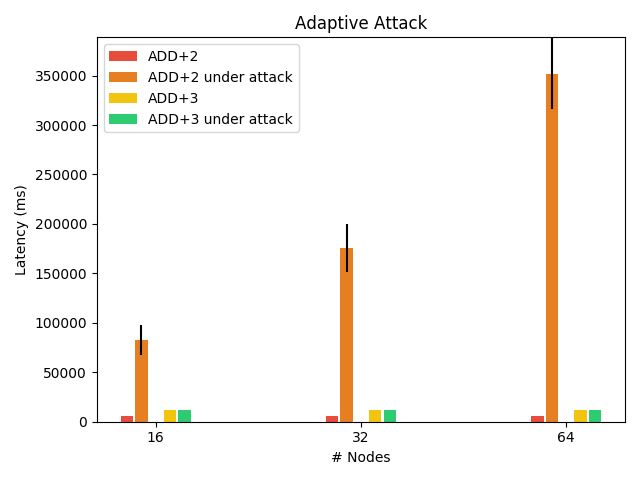
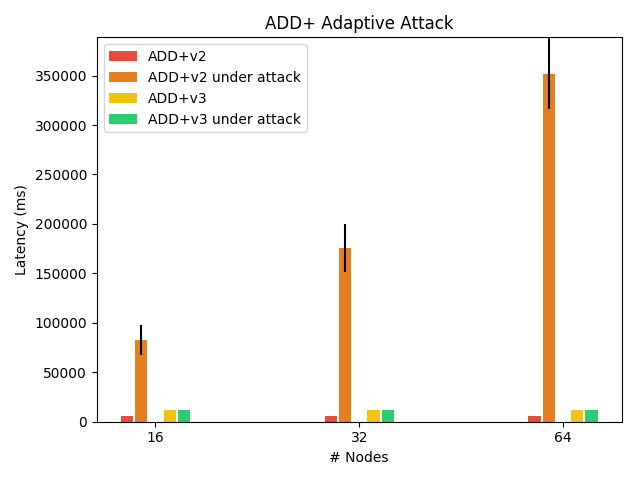
new figures

diff --git a/draw-res.py b/draw-res.py
@@ -33,7 +33,7 @@ def draw(expData):
     ax.set_ylabel('Latency (ms)')
     ax.set_xlabel('# Nodes')
     #ax.set_title(r'$Network = \mathcal{N}(250, 50), \lambda = 1000$')
-    ax.set_title('# Partitions = 3')
+    ax.set_title('Responsiveness')
     ind = np.arange(len(expData[0]['means']))  # the x locations for the groups
     ax.set_xticks(ind)
     ax.set_xticklabels(('16', '32', '64'))
@@ -49,61 +49,60 @@ def draw(expData):
         
         #autolabel(rects, ax)
     print(yMax)
-    plt.ylim(top=yMax + 70000)
+    plt.ylim(top=yMax + 10000)
     ax.legend(loc='upper left')
     fig.tight_layout()
-    plt.axhline(60000, color='k', linestyle='dashed', linewidth=1)
-    #plt.text(2, 2, 'resolve', ha='right', va='center')
     plt.show()
 
-data = partition2.data
-attackData = adaptive.data
-t = 'm'
+n1Data = normal1.data
+n2Data = normal2.data
+lData = l2.data
+t = 'l'
 mean = t + '_mean'
 std = t + '_std'
 expData = [
     {
-        'means': data['v-basic'][mean],
-        'std': data['v-basic'][std],
-        'label': 'ADD+v1',
+        'means': n2Data['v-basic'][mean],
+        'std': n2Data['v-basic'][std],
+        'label': 'ADD+v1 (' + r'$Network = \mathcal{N}(250, 50), \lambda = 1000$' + ')',
         'color': '#e74c3c'
     },
     {
-        'means': data['v-vrf'][mean],
-        'std': data['v-vrf'][std],
-        'label': 'ADD+v2',
+        'means': n1Data['v-basic'][mean],
+        'std': n1Data['v-basic'][std],
+        'label': 'ADD+v1 (' + r'$Network = \mathcal{N}(1000, 300), \lambda = 1000$' + ')',
         'color': '#e67e22'
     },
     {
-        'means': data['v-adaptive'][mean],
-        'std': data['v-adaptive'][std],
-        'label': 'ADD+v3',
+        'means': lData['v-basic'][mean],
+        'std': lData['v-basic'][std],
+        'label': 'ADD+v1 (' + r'$Network = \mathcal{N}(250, 50), \lambda = 2000$' + ')',
         'color': '#f1c40f'
     },
     {
-        'means': data['algorand'][mean],
-        'std': data['algorand'][std],
-        'label': 'Algorand',
+        'means': n2Data['pbft'][mean],
+        'std': n2Data['pbft'][std],
+        'label': 'PBFT (' + r'$Network = \mathcal{N}(250, 50), \lambda = 1000$' + ')',
         'color': '#2ecc71'
     },
     {
-        'means': data['aba'][mean],
-        'std': data['aba'][std],
-        'label': 'Async BA',
+        'means': n1Data['pbft'][mean],
+        'std': n1Data['pbft'][std],
+        'label': 'PBFT (' + r'$Network = \mathcal{N}(1000, 300), \lambda = 1000$' + ')',
         'color': '#3498db'
     },
     {
-        'means': data['dexon-hba'][mean],
-        'std': data['dexon-hba'][std],
-        'label': 'DEXON HBA',
+        'means': lData['pbft'][mean],
+        'std': lData['pbft'][std],
+        'label': 'PBFT (' + r'$Network = \mathcal{N}(250, 50), \lambda = 2000$' + ')',
         'color': '#34495e'
     },
-    {
-        'means': data['pbft'][mean],
-        'std': data['pbft'][std],
-        'label': 'PBFT',
-        'color': '#8e44ad'
-    }
+    # {
+    #     'means': data['pbft'][mean],
+    #     'std': data['pbft'][std],
+    #     'label': 'PBFT',
+    #     'color': '#8e44ad'
+    # }
 ]
 # calculate pos
 l = len(expData)

diff --git a/partition2.py b/partition2.py
@@ -34,5 +34,11 @@ data = {
         'l_std': [1977, 572, 1842],
         'm_mean': [8900, 38444, 145250],
         'm_std': [121, 150, 1908]
+    },
+    'aba': {
+        'l_mean': [36661, 38919, 41056],
+        'l_std': [15267, 15511, 15970],
+        'm_mean': [36830, 326711, 2743326],
+        'm_std': [7507, 63053, 524746]
     }
 }

diff --git a/partition.py b/partition.py
@@ -34,5 +34,11 @@ data = {
         'l_std': [1107, 1878, 436],
         'm_mean': [9362, 39149, 156926],
         'm_std': [59, 365, 466]
+    },
+    'aba': {
+        'l_mean': [33342, 33976, 33524],
+        'l_std': [13465, 14228, 13322],
+        'm_mean': [36432, 311457, 2324562],
+        'm_std': [6158, 65087, 395971]
     }
 }

diff --git a/normal2.py b/normal2.py
@@ -34,5 +34,11 @@ data = {
         'l_std': [57, 33, 21],
         'm_mean': [1440, 5952, 24192],
         'm_std': [0, 0, 0]
+    },
+    'aba': {
+        'l_mean': [14618, 14353, 13158],
+        'l_std': [8132, 7418, 6019],
+        'm_mean': [38022, 306648, 2235528],
+        'm_std': [8368, 63675, 414221]
     }
 }

diff --git a/normal1.py b/normal1.py
@@ -41,4 +41,10 @@ data = {
         'm_mean': [],
         'm_std': []
     },
+    'aba': {
+        'l_mean': [3624, 3363, 3546],
+        'l_std': [1981, 1780, 1849],
+        'm_mean': [37782, 287282, 2422627],
+        'm_std': [8160, 61031, 511217]
+    }
 }
